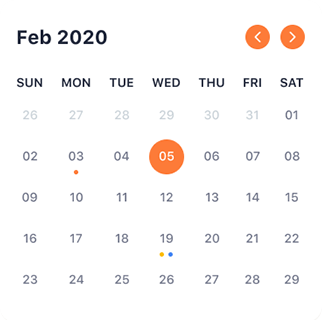
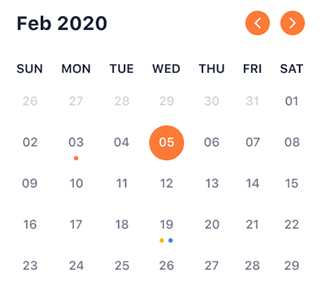
responsive done

diff --git a/WPDP 1000/css/main.min.css b/WPDP 1000/css/main.min.css
@@ -1,1 +1,1 @@
-.container .left{background-color:#fff;box-shadow:rgba(0,0,0,.05) 0px 1px 2px 0px;height:1010px;width:250px;display:flex;flex-direction:column;align-items:start;border-radius:15px;margin:13px}.container .left .menuItems{padding-top:18px}.container .left .leftRow{display:flex;align-items:center;padding:.1rem 0;margin-left:13px}.container .left img{align-self:center;padding-top:18px}.container .left i{color:gray}.container .left h6{padding:13px;font-size:14px;color:gray}.container .left .active{background-color:#fff2ec;margin:0;padding-left:13px;width:100%}.container .left .active i{color:#fd7b38}.container .left .active h6{color:#fd7b38}.container .right .cards .cards1 .card1{background-color:#fff;box-shadow:rgba(0,0,0,.05) 0px 1px 2px 0px;margin:13px 0;padding:18px;border-radius:15px;max-width:100%}.container .right .cards .cards1 .card1 #heading{display:flex;justify-content:space-between;align-items:center}.container .right .cards .cards1 .card1 #heading .heading{display:flex;align-items:center}.container .right .cards .cards1 .card1 #heading .heading .headingText{padding-left:18px}.container .right .cards .cards1 .card1 #heading .heading .headingText p{font-size:14px;color:gray;font-weight:600;margin-top:-0.25rem}.container .right .cards .cards1 .card1 #heading i{height:40px;width:40px;font-size:20px;text-align:center}.container .right .cards .cards1 .card1 #heading .fa-star::before{color:#ffa600;border:1px #d3d3d3 solid;border-radius:50%;margin:0 auto;padding:.3rem}.container .right .cards .cards1 .card1 #heading img{padding:.3rem;background-color:#fff2ec;width:40px;height:40px;border-radius:15px}.container .right .cards .cards1 .card1 .buttons{display:flex;justify-content:space-between;margin:1rem 0;align-items:center}.container .right .cards .cards1 .card1 .buttons .filled{padding:.5rem 1rem;border:none;border-radius:4px;font-weight:600;margin:13px 0;font-size:14px;text-align:center;color:gray}.container .right .cards .cards1 .card1 .buttons .regularBtn{padding:.5rem 1rem;border:2px solid;border-radius:4px;background:none;font-weight:600;font-size:14px;height:-moz-fit-content;height:fit-content;text-align:center;border-color:#fd7b38;color:#fd7b38}.container .right .cards .cards1 .card1 h4{color:gray;font-size:18px}.container .right .cards .cards1 .card1 h4 span{color:#000}.container .right .cards .cards1 .card1 progress{width:100%}.container .right .cards .cards1 .card1 .buttons2{margin:1rem 0}.container .right .cards .cards1 .card1 .buttons2 .filled{padding:.5rem 1rem;border:none;border-radius:4px;font-weight:600;margin:13px 0;font-size:14px;text-align:center;padding:.5rem 1rem;margin-right:.5rem}.container .right .cards .cards1 .card1 .buttons2 .ios{background-color:#e5f3e3;color:#63b25b}.container .right .cards .cards1 .card1 .buttons2 .ux{background-color:#e6f2ff;color:#545dad}.container .right .cards .cards1 .card1 .dueDate{padding:.5rem 1rem;border:none;border-radius:4px;font-weight:600;margin:13px 0;font-size:14px;text-align:center;background-color:#fff2ec;color:#e79800}.container .right .cards .cards1 .card2{background-color:#fff;box-shadow:rgba(0,0,0,.05) 0px 1px 2px 0px;margin:13px 0;padding:18px;border-radius:15px;max-width:100%}.container .right .cards .cards1 .card2 #heading{display:flex;justify-content:space-between;align-items:center}.container .right .cards .cards1 .card2 #heading .heading{display:flex;align-items:center}.container .right .cards .cards1 .card2 #heading .heading .headingText{padding-left:18px}.container .right .cards .cards1 .card2 #heading .heading .headingText p{font-size:14px;color:gray;font-weight:600;margin-top:-0.25rem}.container .right .cards .cards1 .card2 #heading i{height:40px;width:40px;font-size:20px;text-align:center}.container .right .cards .cards1 .card2 #heading .fa-star::before{color:#ffa600;border:1px #d3d3d3 solid;border-radius:50%;margin:0 auto;padding:.3rem}.container .right .cards .cards1 .card2 #heading img{padding:.3rem;background-color:#fff2ec;width:40px;height:40px;border-radius:15px}.container .right .cards .cards1 .card2 .buttons{display:flex;justify-content:space-between;margin:1rem 0;align-items:center}.container .right .cards .cards1 .card2 .buttons .filled{padding:.5rem 1rem;border:none;border-radius:4px;font-weight:600;margin:13px 0;font-size:14px;text-align:center;color:#63b25b;background-color:#e5f3e3}.container .right .cards .cards1 .card2 .buttons .regularBtn{padding:.5rem 1rem;border:2px solid;border-radius:4px;background:none;font-weight:600;font-size:14px;height:-moz-fit-content;height:fit-content;text-align:center;border-color:#63b25b;color:#63b25b}.container .right .cards .cards1 .card2 h4{color:gray;font-size:18px}.container .right .cards .cards1 .card2 h4 span{color:#000}.container .right .cards .cards1 .card2 progress{width:100%}.container .right .cards .cards1 .card2 .buttons2{margin:1rem 0}.container .right .cards .cards1 .card2 .buttons2 .filled{padding:.5rem 1rem;border:none;border-radius:4px;font-weight:600;margin:13px 0;font-size:14px;text-align:center;padding:.5rem 1rem;margin-right:.5rem}.container .right .cards .cards1 .card2 .buttons2 .ios{background-color:#e5f3e3;color:#63b25b}.container .right .cards .cards1 .card2 .buttons2 .ux{background-color:#fff7e6;color:#ffa600}.container .right .cards .cards1 .card2 .dueDate{padding:.5rem 1rem;border:none;border-radius:4px;font-weight:600;margin:13px 0;font-size:14px;text-align:center;background-color:#fff2ec;color:#e79800}.container .right .cards .cards2 .card3{background-color:#fff;box-shadow:rgba(0,0,0,.05) 0px 1px 2px 0px;margin:13px 0;padding:18px;border-radius:15px;max-width:100%}.container .right .cards .cards2 .card3 .heading{display:flex;align-items:center}.container .right .cards .cards2 .card3 .heading h2{padding-right:18px}.container .right .cards .cards2 .card3 .heading p{color:gray}.container .right .cards .cards2 .card3 .row{display:flex;padding:18px 0;border-bottom:1px solid #ebebeb;width:100%;justify-content:space-between}.container .right .cards .cards2 .card3 .row .number-name{display:flex}.container .right .cards .cards2 .card3 .row .number-name .number{padding-right:18px;font-size:14px;color:gray;align-self:center}.container .right .cards .cards2 .card3 .row .number-name .taskName{display:flex;justify-self:flex-start;text-align:start;font-size:14px;color:gray;align-self:center;font-size:16px}.container .right .cards .cards2 .card3 .row .comment-branch{display:flex;align-items:center;justify-content:space-between}.container .right .cards .cards2 .card3 .row .comment-branch p{color:gray}.container .right .cards .cards2 .card3 .row .comment-branch .fa-comment,.container .right .cards .cards2 .card3 .row .comment-branch .fa-code-branch{padding:0 .5rem;color:gray}.container .right .cards .cards2 .card3 .row .comment-branch .branch{display:flex;padding-left:18px}.container .right .cards .cards2 .card3 .row .fa-circle-check{display:flex;justify-self:flex-end;align-self:center;color:gray;font-size:20px}.container .right .cards .cards2 .card3 .row .fill{color:#63b25b}.container .right .cards .cards2 .card4{background-color:#fff;box-shadow:rgba(0,0,0,.05) 0px 1px 2px 0px;margin:13px 0;padding:18px;border-radius:15px;max-width:100%}.container .right .cards .cards2 .card4 .heading{display:flex;align-items:center;justify-content:space-between;padding:18px 18px 18px 0}.container .right .cards .cards2 .card4 .heading .fa-play::before{color:gray;border:1px solid gray;padding:.5rem .7rem;border-radius:4px}.container .right .cards .cards2 .card4 .firstRow{display:flex;align-items:center;justify-content:space-between;padding:.5rem 0;background-color:#fff2ec}.container .right .cards .cards2 .card4 .firstRow .task-watch{display:flex;align-items:center}.container .right .cards .cards2 .card4 .firstRow .task-watch i{font-size:18px;color:#fd7b38}.container .right .cards .cards2 .card4 .firstRow .task-watch h5{font-size:14px;padding:0 18px}.container .right .cards .cards2 .card4 .firstRow .time-icons{display:flex;align-items:center}.container .right .cards .cards2 .card4 .firstRow .time-icons .fa-pause::before{color:#fff;border:1px solid gray;padding:.5rem .7rem;border-radius:4px;background-color:#fd7b38;border:none;margin:0 18px}.container .right .cards .cards2 .card4 .firstRow .time-icons .fa-ellipsis-vertical{color:gray;font-size:18px}.container .right .cards .cards2 .card4 .row{display:flex;align-items:center;justify-content:space-between;padding:.5rem 0}.container .right .cards .cards2 .card4 .row .task-watch{display:flex;align-items:center}.container .right .cards .cards2 .card4 .row .task-watch i{font-size:18px;color:gray}.container .right .cards .cards2 .card4 .row .task-watch h5{font-size:14px;padding:0 18px}.container .right .cards .cards2 .card4 .row .time-icons{display:flex;align-items:center}.container .right .cards .cards2 .card4 .row .time-icons .fa-pause::before{color:gray;border:1px solid gray;padding:.5rem .7rem;border-radius:4px;margin:0 18px}.container .right .cards .cards2 .card4 .row .time-icons .fa-ellipsis-vertical{color:gray;font-size:18px}.container .right .cards .cards3 .card6{background-color:#fff;box-shadow:rgba(0,0,0,.05) 0px 1px 2px 0px;margin:13px 0;padding:18px;border-radius:15px;width:500px}.container .right .cards .cards3 .card6 .personRow{display:flex;align-items:center;margin:18px 0}.container .right .cards .cards3 .card6 .personRow .person1{border:2px solid #c26f2d}.container .right .cards .cards3 .card6 .personRow .person2{border:2px solid #1a6998}.container .right .cards .cards3 .card6 .personRow .person3{border:2px solid #004954}.container .right .cards .cards3 .card6 .personRow .person4{border:2px solid #212d2b}.container .right .cards .cards3 .card6 .personRow img{height:80px;width:80px;border-radius:50%;padding:.2rem}.container .right .cards .cards3 .card6 .personRow .text{padding-left:18px}.container .right .cards .cards3 .card6 .personRow .text h4{font-size:18px}.container .right .cards .cards3 .card6 .personRow .text p{color:gray}.container .right .searchBarDiv{background-color:#fff;height:50px;width:99%;margin-bottom:13px;border-radius:15px;display:flex;align-items:center;justify-content:space-between;padding:18px .5rem}.container .right .searchBarDiv input{border:none;background-color:#f3f3f3;padding:.5rem;margin:13px;border-radius:20px;width:25%}.container .right .searchBarDiv .leftAreaSearch{display:flex;justify-content:flex-end;align-items:center;color:gray}.container .right .searchBarDiv .leftAreaSearch img{width:40px;height:40px;border-radius:50%;padding:18px}*{margin:0;padding:0;font-family:"Almarai",sans-serif}body{background-color:#dcd7cd}.container{background-color:#f7f6f4;display:flex;margin:13px;border-radius:15px}.container .right{width:100vw;margin:13px}.container .right .cards{display:flex;justify-content:space-between}.container .right .cards .cards1{display:flex;flex-direction:column;width:500px;margin-right:13px}.container .right .cards .cards2{display:flex;flex-direction:column;width:500px;margin-right:13px}.container .right .cards .cards3 .card5{display:flex;flex-direction:column;justify-content:space-between;width:400px;margin:13px 0;box-shadow:rgba(0,0,0,.05) 0px 1px 2px 0px;border-radius:15px;padding:.45rem 4.3rem;background-color:#fff}.container .right .cards .cards3 .card5 img{width:350px}
+.container .left{background-color:#fff;box-shadow:rgba(0,0,0,.05) 0px 1px 2px 0px;height:1010px;width:13%;display:flex;flex-direction:column;align-items:start;border-radius:15px;margin:13px}.container .left .menuItems{padding-top:18px}.container .left .leftRow{display:flex;align-items:center;padding:.1rem 0;margin-left:13px}.container .left img{align-self:center;padding-top:18px}.container .left i{color:gray}.container .left h6{padding:13px;font-size:14px;color:gray}.container .left .active{background-color:#fff2ec;margin:0;width:100%}.container .left .active i{padding-left:13px;color:#fd7b38}.container .left .active h6{color:#fd7b38}.container .right .cards .cards1 .card1{background-color:#fff;box-shadow:rgba(0,0,0,.05) 0px 1px 2px 0px;margin:13px 0;padding:18px;border-radius:15px}.container .right .cards .cards1 .card1 #heading{display:flex;justify-content:space-between;align-items:center}.container .right .cards .cards1 .card1 #heading .heading{display:flex;align-items:center}.container .right .cards .cards1 .card1 #heading .heading .headingText{padding-left:18px}.container .right .cards .cards1 .card1 #heading .heading .headingText p{font-size:14px;color:gray;font-weight:600;margin-top:-0.25rem}.container .right .cards .cards1 .card1 #heading i{height:40px;width:40px;font-size:20px;text-align:center}.container .right .cards .cards1 .card1 #heading .fa-star::before{color:#ffa600;border:1px #d3d3d3 solid;border-radius:50%;margin:0 auto;padding:.3rem}.container .right .cards .cards1 .card1 #heading img{padding:.3rem;background-color:#fff2ec;width:40px;height:40px;border-radius:15px}.container .right .cards .cards1 .card1 .buttons{display:flex;justify-content:space-between;margin:1rem 0;align-items:center}.container .right .cards .cards1 .card1 .buttons .filled{padding:.5rem 1rem;border:none;border-radius:4px;font-weight:600;margin:13px 0;font-size:14px;text-align:center;color:gray}.container .right .cards .cards1 .card1 .buttons .regularBtn{padding:.5rem 1rem;border:2px solid;border-radius:4px;background:none;font-weight:600;font-size:14px;height:-moz-fit-content;height:fit-content;text-align:center;border-color:#fd7b38;color:#fd7b38}.container .right .cards .cards1 .card1 h4{color:gray;font-size:18px}.container .right .cards .cards1 .card1 h4 span{color:#000}.container .right .cards .cards1 .card1 progress{width:100%}.container .right .cards .cards1 .card1 .buttons2{margin:1rem 0}.container .right .cards .cards1 .card1 .buttons2 .filled{padding:.5rem 1rem;border:none;border-radius:4px;font-weight:600;margin:13px 0;font-size:14px;text-align:center;padding:.5rem 1rem;margin-right:.5rem}.container .right .cards .cards1 .card1 .buttons2 .ios{background-color:#e5f3e3;color:#63b25b}.container .right .cards .cards1 .card1 .buttons2 .ux{background-color:#e6f2ff;color:#545dad}.container .right .cards .cards1 .card1 .dueDate{padding:.5rem 1rem;border:none;border-radius:4px;font-weight:600;margin:13px 0;font-size:14px;text-align:center;background-color:#fff2ec;color:#e79800}.container .right .cards .cards1 .card2{background-color:#fff;box-shadow:rgba(0,0,0,.05) 0px 1px 2px 0px;margin:13px 0;padding:18px;border-radius:15px}.container .right .cards .cards1 .card2 #heading{display:flex;justify-content:space-between;align-items:center}.container .right .cards .cards1 .card2 #heading .heading{display:flex;align-items:center}.container .right .cards .cards1 .card2 #heading .heading .headingText{padding-left:18px}.container .right .cards .cards1 .card2 #heading .heading .headingText p{font-size:14px;color:gray;font-weight:600;margin-top:-0.25rem}.container .right .cards .cards1 .card2 #heading i{height:40px;width:40px;font-size:20px;text-align:center}.container .right .cards .cards1 .card2 #heading .fa-star::before{color:#ffa600;border:1px #d3d3d3 solid;border-radius:50%;margin:0 auto;padding:.3rem}.container .right .cards .cards1 .card2 #heading img{padding:.3rem;background-color:#fff2ec;width:40px;height:40px;border-radius:15px}.container .right .cards .cards1 .card2 .buttons{display:flex;justify-content:space-between;margin:1rem 0;align-items:center}.container .right .cards .cards1 .card2 .buttons .filled{padding:.5rem 1rem;border:none;border-radius:4px;font-weight:600;margin:13px 0;font-size:14px;text-align:center;color:#63b25b;background-color:#e5f3e3}.container .right .cards .cards1 .card2 .buttons .regularBtn{padding:.5rem 1rem;border:2px solid;border-radius:4px;background:none;font-weight:600;font-size:14px;height:-moz-fit-content;height:fit-content;text-align:center;border-color:#63b25b;color:#63b25b}.container .right .cards .cards1 .card2 h4{color:gray;font-size:18px}.container .right .cards .cards1 .card2 h4 span{color:#000}.container .right .cards .cards1 .card2 progress{width:100%}.container .right .cards .cards1 .card2 .buttons2{margin:1rem 0}.container .right .cards .cards1 .card2 .buttons2 .filled{padding:.5rem 1rem;border:none;border-radius:4px;font-weight:600;margin:13px 0;font-size:14px;text-align:center;padding:.5rem 1rem;margin-right:.5rem}.container .right .cards .cards1 .card2 .buttons2 .ios{background-color:#e5f3e3;color:#63b25b}.container .right .cards .cards1 .card2 .buttons2 .ux{background-color:#fff7e6;color:#ffa600}.container .right .cards .cards1 .card2 .dueDate{padding:.5rem 1rem;border:none;border-radius:4px;font-weight:600;margin:13px 0;font-size:14px;text-align:center;background-color:#fff2ec;color:#e79800}.container .right .cards .cards2 .card3{background-color:#fff;box-shadow:rgba(0,0,0,.05) 0px 1px 2px 0px;margin:13px 0;padding:18px;border-radius:15px}.container .right .cards .cards2 .card3 .heading{display:flex;align-items:center}.container .right .cards .cards2 .card3 .heading h2{padding-right:18px}.container .right .cards .cards2 .card3 .heading p{color:gray}.container .right .cards .cards2 .card3 .row{display:flex;padding:18px 0;border-bottom:1px solid #ebebeb;width:100%;justify-content:space-between}.container .right .cards .cards2 .card3 .row .number-name{display:flex}.container .right .cards .cards2 .card3 .row .number-name .number{padding-right:18px;font-size:14px;color:gray;align-self:center}.container .right .cards .cards2 .card3 .row .number-name .taskName{display:flex;justify-self:flex-start;text-align:start;font-size:14px;color:gray;align-self:center;font-size:16px}.container .right .cards .cards2 .card3 .row .comment-branch{display:flex;align-items:center;justify-content:space-between}.container .right .cards .cards2 .card3 .row .comment-branch p{color:gray}.container .right .cards .cards2 .card3 .row .comment-branch .fa-comment,.container .right .cards .cards2 .card3 .row .comment-branch .fa-code-branch{padding:0 .5rem;color:gray}.container .right .cards .cards2 .card3 .row .comment-branch .branch{display:flex;padding-left:18px}.container .right .cards .cards2 .card3 .row .fa-circle-check{display:flex;justify-self:flex-end;align-self:center;color:gray;font-size:20px}.container .right .cards .cards2 .card3 .row .fill{color:#63b25b}.container .right .cards .cards2 .card4{background-color:#fff;box-shadow:rgba(0,0,0,.05) 0px 1px 2px 0px;margin:13px 0;padding:18px;border-radius:15px}.container .right .cards .cards2 .card4 .heading{display:flex;align-items:center;justify-content:space-between;padding:18px 18px 18px 0}.container .right .cards .cards2 .card4 .heading .fa-play::before{color:gray;border:1px solid gray;padding:.5rem .7rem;border-radius:4px;margin:0 .2rem}.container .right .cards .cards2 .card4 .firstRow{display:flex;align-items:center;justify-content:space-between;padding:.5rem 0;background-color:#fff2ec}.container .right .cards .cards2 .card4 .firstRow .task-watch{display:flex;align-items:center}.container .right .cards .cards2 .card4 .firstRow .task-watch i{font-size:18px;color:#fd7b38}.container .right .cards .cards2 .card4 .firstRow .task-watch h5{font-size:14px;padding:0 18px}.container .right .cards .cards2 .card4 .firstRow .time-icons{display:flex;align-items:center}.container .right .cards .cards2 .card4 .firstRow .time-icons .fa-pause::before{color:#fff;background-color:#fd7b38;border:none;padding:.6rem .8rem;border-radius:4px;margin:0 18px}.container .right .cards .cards2 .card4 .firstRow .time-icons .fa-ellipsis-vertical{color:gray;font-size:18px}.container .right .cards .cards2 .card4 .row{display:flex;align-items:center;justify-content:space-between;padding:.5rem 0}.container .right .cards .cards2 .card4 .row .task-watch{display:flex;align-items:center}.container .right .cards .cards2 .card4 .row .task-watch i{font-size:18px;color:gray}.container .right .cards .cards2 .card4 .row .task-watch h5{font-size:14px;padding:0 18px}.container .right .cards .cards2 .card4 .row .time-icons{display:flex;align-items:center}.container .right .cards .cards2 .card4 .row .time-icons .fa-pause::before{color:gray;border:1px solid gray;padding:.5rem .7rem;border-radius:4px;margin:0 18px}.container .right .cards .cards2 .card4 .row .time-icons .fa-ellipsis-vertical{color:gray;font-size:18px}.container .right .cards .cards3 .card6{background-color:#fff;box-shadow:rgba(0,0,0,.05) 0px 1px 2px 0px;margin:13px 0;padding:18px;border-radius:15px;width:93%}.container .right .cards .cards3 .card6 .personRow{display:flex;align-items:center;margin:18px 0}.container .right .cards .cards3 .card6 .personRow .person1{border:2px solid #c26f2d}.container .right .cards .cards3 .card6 .personRow .person2{border:2px solid #1a6998}.container .right .cards .cards3 .card6 .personRow .person3{border:2px solid #004954}.container .right .cards .cards3 .card6 .personRow .person4{border:2px solid #212d2b}.container .right .cards .cards3 .card6 .personRow img{width:75px;width:75px;border-radius:50%;padding:.2rem}.container .right .cards .cards3 .card6 .personRow .text{padding-left:18px}.container .right .cards .cards3 .card6 .personRow .text h4{font-size:18px}.container .right .cards .cards3 .card6 .personRow .text p{color:gray}.container .right .searchBarDiv{background-color:#fff;height:50px;width:98%;margin:0 13px 13px 0;border-radius:15px;display:flex;align-items:center;justify-content:space-between;padding:18px .5rem}.container .right .searchBarDiv input{border:none;background-color:#f3f3f3;padding:1rem;margin:13px;border-radius:20px;width:25%}.container .right .searchBarDiv .leftAreaSearch{display:flex;justify-content:flex-end;align-items:center;color:gray}.container .right .searchBarDiv .leftAreaSearch img{width:40px;height:40px;border-radius:50%;padding:18px}*{margin:0;padding:0;font-family:"Almarai",sans-serif}body{background-color:#dcd7cd}.container{background-color:#f7f6f4;display:flex;margin:13px;border-radius:15px;padding:18px}.container .right{width:100vw;margin:13px}.container .right .cards{display:flex;justify-content:space-between}.container .right .cards .cards1{display:flex;flex-direction:column;width:33.5%;margin-right:13px}.container .right .cards .cards2{display:flex;flex-direction:column;width:33.3%;margin-right:13px}.container .right .cards .cards3{display:flex;flex-direction:column;width:33.3%}.container .right .cards .cards3 .card5{display:flex;flex-direction:column;justify-content:space-between;margin:13px 0;border-radius:15px}.container .right .cards .cards3 .card5 img{height:365px;width:auto;box-shadow:rgba(0,0,0,.05) 0px 1px 2px 0px}

diff --git a/WPDP 1000/css/main.css b/WPDP 1000/css/main.css
@@ -2,7 +2,7 @@
   background-color: white;
   box-shadow: rgba(0, 0, 0, 0.05) 0px 1px 2px 0px;
   height: 1010px;
-  width: 250px;
+  width: 13%;
   display: flex;
   flex-direction: column;
   align-items: start;
@@ -33,10 +33,10 @@
 .container .left .active {
   background-color: #fff2ec;
   margin: 0;
-  padding-left: 13px;
   width: 100%;
 }
 .container .left .active i {
+  padding-left: 13px;
   color: #fd7b38;
 }
 .container .left .active h6 {
@@ -49,7 +49,6 @@
   margin: 13px 0;
   padding: 18px;
   border-radius: 15px;
-  max-width: 100%;
 }
 .container .right .cards .cards1 .card1 #heading {
   display: flex;
@@ -147,8 +146,8 @@
   color: #63b25b;
 }
 .container .right .cards .cards1 .card1 .buttons2 .ux {
-  background-color: #E6F2FF;
-  color: #545DAD;
+  background-color: #e6f2ff;
+  color: #545dad;
 }
 .container .right .cards .cards1 .card1 .dueDate {
   padding: 0.5rem 1rem;
@@ -168,7 +167,6 @@
   margin: 13px 0;
   padding: 18px;
   border-radius: 15px;
-  max-width: 100%;
 }
 .container .right .cards .cards1 .card2 #heading {
   display: flex;
@@ -267,7 +265,7 @@
   color: #63b25b;
 }
 .container .right .cards .cards1 .card2 .buttons2 .ux {
-  background-color: #FFF7E6;
+  background-color: #fff7e6;
   color: #ffa600;
 }
 .container .right .cards .cards1 .card2 .dueDate {
@@ -288,7 +286,6 @@
   margin: 13px 0;
   padding: 18px;
   border-radius: 15px;
-  max-width: 100%;
 }
 .container .right .cards .cards2 .card3 .heading {
   display: flex;
@@ -359,7 +356,6 @@
   margin: 13px 0;
   padding: 18px;
   border-radius: 15px;
-  max-width: 100%;
 }
 .container .right .cards .cards2 .card4 .heading {
   display: flex;
@@ -372,6 +368,7 @@
   border: 1px solid gray;
   padding: 0.5rem 0.7rem;
   border-radius: 4px;
+  margin: 0 0.2rem;
 }
 .container .right .cards .cards2 .card4 .firstRow {
   display: flex;
@@ -398,11 +395,10 @@
 }
 .container .right .cards .cards2 .card4 .firstRow .time-icons .fa-pause::before {
   color: white;
-  border: 1px solid gray;
-  padding: 0.5rem 0.7rem;
-  border-radius: 4px;
   background-color: #fd7b38;
   border: none;
+  padding: 0.6rem 0.8rem;
+  border-radius: 4px;
   margin: 0 18px;
 }
 .container .right .cards .cards2 .card4 .firstRow .time-icons .fa-ellipsis-vertical {
@@ -449,7 +445,7 @@
   margin: 13px 0;
   padding: 18px;
   border-radius: 15px;
-  width: 500px;
+  width: 93%;
 }
 .container .right .cards .cards3 .card6 .personRow {
   display: flex;
@@ -469,8 +465,8 @@
   border: 2px solid #212d2b;
 }
 .container .right .cards .cards3 .card6 .personRow img {
-  height: 80px;
-  width: 80px;
+  width: 75px;
+  width: 75px;
   border-radius: 50%;
   padding: 0.2rem;
 }
@@ -487,8 +483,8 @@
 .container .right .searchBarDiv {
   background-color: white;
   height: 50px;
-  width: 99%;
-  margin-bottom: 13px;
+  width: 98%;
+  margin: 0 13px 13px 0;
   border-radius: 15px;
   display: flex;
   align-items: center;
@@ -498,7 +494,7 @@
 .container .right .searchBarDiv input {
   border: none;
   background-color: rgb(243, 243, 243);
-  padding: 0.5rem;
+  padding: 1rem;
   margin: 13px;
   border-radius: 20px;
   width: 25%;
@@ -531,6 +527,7 @@ body {
   display: flex;
   margin: 13px;
   border-radius: 15px;
+  padding: 18px;
 }
 .container .right {
   width: 100vw;
@@ -543,26 +540,29 @@ body {
 .container .right .cards .cards1 {
   display: flex;
   flex-direction: column;
-  width: 500px;
+  width: 33.5%;
   margin-right: 13px;
 }
 .container .right .cards .cards2 {
   display: flex;
   flex-direction: column;
-  width: 500px;
+  width: 33.3%;
   margin-right: 13px;
+}
+.container .right .cards .cards3 {
+  display: flex;
+  flex-direction: column;
+  width: 33.3%;
 }
 .container .right .cards .cards3 .card5 {
   display: flex;
   flex-direction: column;
   justify-content: space-between;
-  width: 400px;
   margin: 13px 0;
-  box-shadow: rgba(0, 0, 0, 0.05) 0px 1px 2px 0px;
   border-radius: 15px;
-  padding: 0.45rem 4.3rem;
-  background-color: white;
 }
 .container .right .cards .cards3 .card5 img {
-  width: 350px;
+  height: 365px;
+  width: auto;
+  box-shadow: rgba(0, 0, 0, 0.05) 0px 1px 2px 0px;
 }

diff --git a/WPDP 1000/dashboard/components/_card.scss b/WPDP 1000/dashboard/components/_card.scss
@@ -5,7 +5,7 @@
   background-color: white;
   box-shadow: variables.$shadowCard;
   height: 1010px;
-  width: 250px;
+  width: 13%;
   display: flex;
   flex-direction: column;
   align-items: start;
@@ -35,9 +35,10 @@
   .active {
     background-color: variables.$highlight;
     margin: 0;
-    padding-left: variables.$margin;
     width: 100%;
     i {
+      padding-left: variables.$margin;
+
       color: variables.$accentOrange;
     }
     h6 {
@@ -52,7 +53,6 @@
   margin: variables.$margin 0;
   padding: variables.$padding;
   border-radius: variables.$cardRadius;
-  max-width: 100%;
   #heading {
     display: flex;
     justify-content: space-between;
@@ -146,7 +146,6 @@
   margin: variables.$margin 0;
   padding: variables.$padding;
   border-radius: variables.$cardRadius;
-  max-width: 100%;
   #heading {
     display: flex;
     justify-content: space-between;
@@ -241,7 +240,6 @@
   margin: variables.$margin 0;
   padding: variables.$padding;
   border-radius: variables.$cardRadius;
-  max-width: 100%;
   .heading {
     display: flex;
     align-items: center;
@@ -313,7 +311,6 @@
   margin: variables.$margin 0;
   padding: variables.$padding;
   border-radius: variables.$cardRadius;
-  max-width: 100%;
   .heading {
     display: flex;
     align-items: center;
@@ -325,6 +322,7 @@
       border: 1px solid gray;
       padding: 0.5rem 0.7rem;
       border-radius: variables.$buttonRadius;
+      margin: 0 0.2rem;
     }
   }
   .firstRow {
@@ -351,11 +349,10 @@
       align-items: center;
       .fa-pause::before {
         color: white;
-        border: 1px solid gray;
-        padding: 0.5rem 0.7rem;
-        border-radius: variables.$buttonRadius;
         background-color: variables.$accentOrange;
         border: none;
+        padding: 0.6rem 0.8rem;
+        border-radius: variables.$buttonRadius;
         margin: 0 variables.$padding;
       }
       .fa-ellipsis-vertical {
@@ -406,7 +403,7 @@
   margin: variables.$margin 0;
   padding: variables.$padding;
   border-radius: variables.$cardRadius;
-  width: 500px;
+  width: 93%;
   .personRow {
     display: flex;
     align-items: center;
@@ -425,8 +422,8 @@
     }
 
     img {
-      height: 80px;
-      width: 80px;
+      width: 75px;
+      width: 75px;
       border-radius: 50%;
       padding: 0.2rem;
     }

diff --git a/WPDP 1000/dashboard/main.scss b/WPDP 1000/dashboard/main.scss
@@ -18,6 +18,7 @@ body {
   display: flex;
   margin: variables.$margin;
   border-radius: variables.$cardRadius;
+  padding: variables.$padding;
   .left {
     @extend %long-card;
   }
@@ -33,8 +34,7 @@ body {
       .cards1 {
         display: flex;
         flex-direction: column;
-        // justify-content: space-between;
-        width: 500px;
+        width: 33.5%;
         margin-right: variables.$margin;
         .card1 {
           @extend %square-card1;
@@ -46,8 +46,7 @@ body {
       .cards2 {
         display: flex;
         flex-direction: column;
-        // justify-content: space-between;
-        width: 500px;
+        width: 33.3%;
         margin-right: variables.$margin;
         .card3 {
           @extend %square-card3;
@@ -57,19 +56,20 @@ body {
         }
       }
       .cards3 {
+        display: flex;
+        flex-direction: column;
+        width: 33.3%;
         .card5 {
           display: flex;
           flex-direction: column;
           justify-content: space-between;
-          width: 400px;
           margin: variables.$margin 0;
-          box-shadow: variables.$shadowCard;
           border-radius: variables.$cardRadius;
-          padding: 0.45rem 4.3rem;
 
-          background-color: white;
           img {
-            width: 350px;
+            height: 365px;
+            width: auto;
+            box-shadow: variables.$shadowCard;
           }
         }
         .card6 {

diff --git a/WPDP 1000/dashboard/components/_searchBar.scss b/WPDP 1000/dashboard/components/_searchBar.scss
@@ -4,8 +4,8 @@
 %search-bar {
   background-color: white;
   height: 50px;
-  width: 99%;
-  margin-bottom: variables.$margin;
+  width: 98%;
+  margin: 0 variables.$margin variables.$margin 0;
   border-radius: variables.$cardRadius;
   display: flex;
   align-items: center;
@@ -14,7 +14,7 @@
   input {
     border: none;
     background-color: rgb(243, 243, 243);
-    padding: 0.5rem;
+    padding: 1rem;
     margin: variables.$margin;
     border-radius: 20px;
     width: 25%;

diff --git a/WPDP 1000/dashboard/index.html b/WPDP 1000/dashboard/index.html
@@ -11,6 +11,7 @@
       href="https://fonts.googleapis.com/css2?family=Almarai:wght@300;400;700;800&display=swap"
       rel="stylesheet"
     />
+    <link href="https://cdnjs.cloudflare.com/ajax/libs/font-awesome/4.7.0/css/font-awesome.min.css" rel="stylesheet"/>
     <script
       src="https://kit.fontawesome.com/71978fcef7.js"
       crossorigin="anonymous"

diff --git a/WPDP 1000/dashboard/_variables.scss b/WPDP 1000/dashboard/_variables.scss
@@ -4,12 +4,12 @@ $highlight: #fff2ec;
 $star: #ffa600;
 $primaryOrange: #e79800;
 $accentOrange: #fd7b38;
-$blue: #545DAD;
+$blue: #545dad;
 $pink: #e257b3;
 $checkGreen: #63b25b;
 $btnGreen: #e5f3e3;
-$btnBlue: #E6F2FF;
-$btnYellow: #FFF7E6;
+$btnBlue: #e6f2ff;
+$btnYellow: #fff7e6;
 
 $cardRadius: 15px;
 $buttonRadius: 4px;
